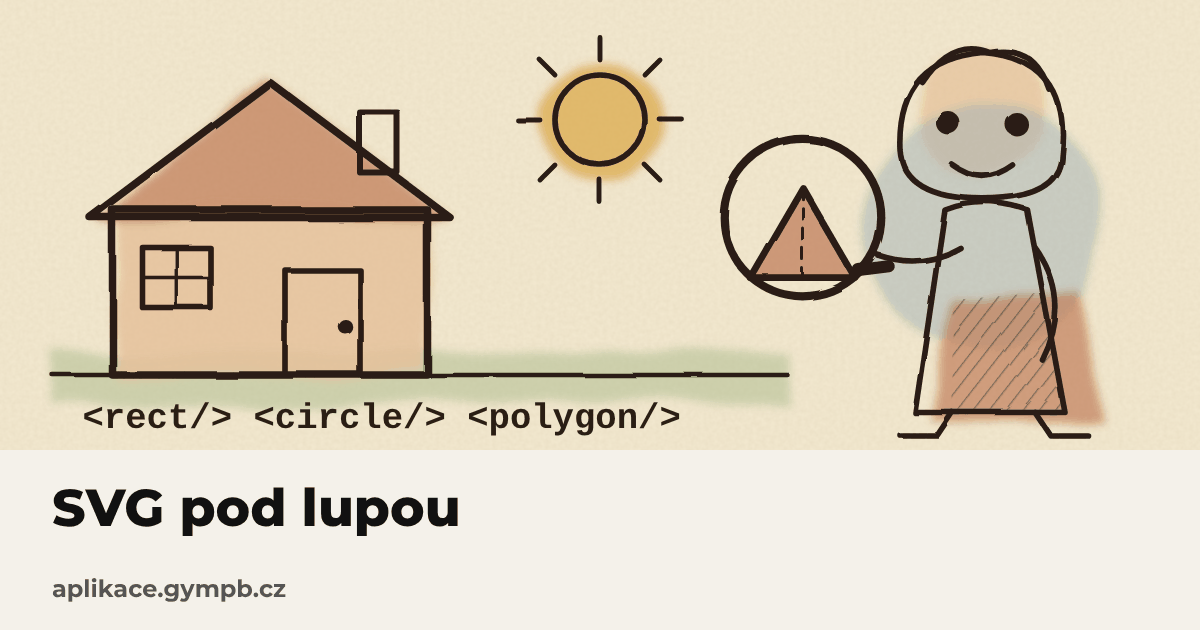
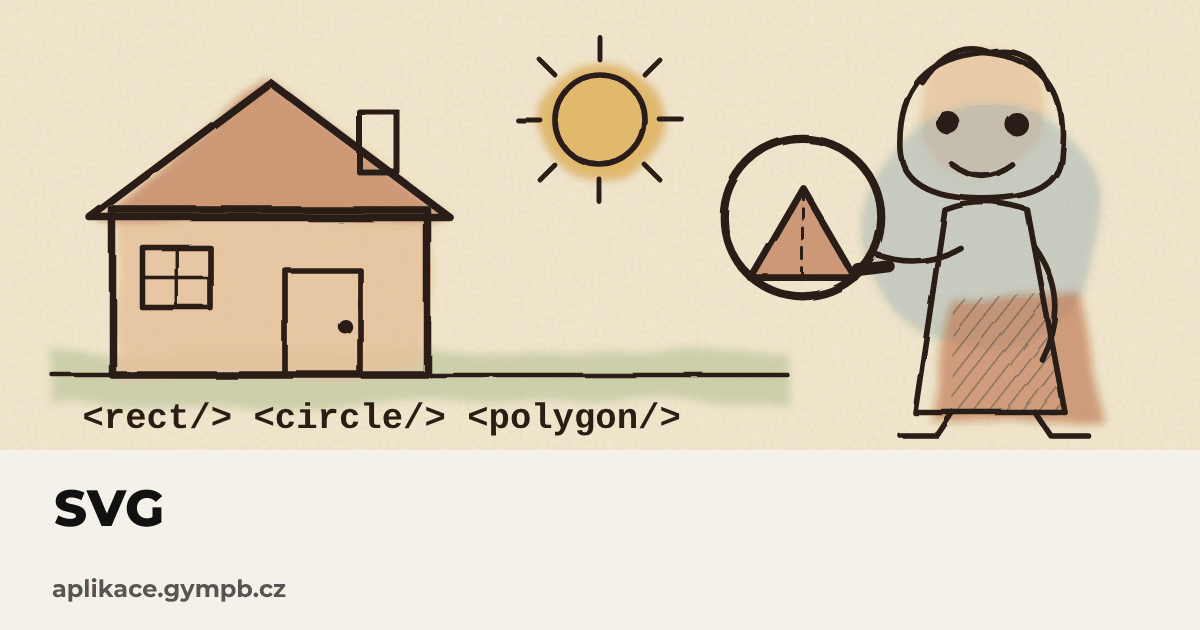
Aplikace SVG pod lupou přejmenována na SVG a vyřazena z řady Pod lupou
Claude-Session: https://claude.ai/code/session_01BEUPNzadzTH9h2qQ7Kx97s

Changed region(s): [[0.0308, 0.754, 0.4008, 0.8444]]

diff --git a/didaktika-aplikaci/index.html b/didaktika-aplikaci/index.html
@@ -283,7 +283,7 @@ dialog.cr button.cr-x,dialog.cr .cr-extra button{font:700 16px/1.2 system-ui,-ap
 <div class="series"><h3>Pod lupou</h3><p><span class="tag">pojmy</span><span class="tag">rozpoznávání</span></p>
 <p><b>Koncepce.</b> Jedno téma se rozebírá do detailu a žák zkoumá, co se uvnitř skrývá. Několik úrovní (Začátečník, Pokročilý, Profesionál), konkrétní záhada na začátku, odhadové otázky, kvíz na konci. Hodí se pro cíle typu B a D.</p>
 <p><b>Pozor na</b> delší čtený text a maskota, který nenese učivo.</p>
-<ul class="apps"><li><a href="../bitmapa-pod-lupou/">Bitmapa pod lupou</a></li><li><a href="../ascii-kod-pod-lupou/">ASCII kód pod lupou</a></li><li><a href="../unicode-pod-lupou/">Unicode pod lupou</a></li><li><a href="../svg-pod-lupou/">SVG pod lupou</a></li></ul></div>
+<ul class="apps"><li><a href="../bitmapa-pod-lupou/">Bitmapa pod lupou</a></li><li><a href="../ascii-kod-pod-lupou/">ASCII kód pod lupou</a></li><li><a href="../unicode-pod-lupou/">Unicode pod lupou</a></li></ul></div>
 <div class="series"><h3>Rychlé učení</h3><p><span class="tag">fakta</span><span class="tag">postupy</span><span class="tag">metakognice</span></p>
 <p><b>Koncepce.</b> Aplikace stavěná na smyčku z úvodu: šest krátkých kroků, řešený příklad → doplňování → samostatně, tři úrovně nápověd, rozložené opakování, které se přizpůsobí chybám, přenositelný kód zálohy. Bez sérií, odznaků a zvuků jako motoru. Pro mobil, relace v minutách. Cíle typu A, C a F.</p>
 <ul class="apps"><li><a href="../bity-a-bajty/">Bity a bajty</a></li></ul></div>
@@ -567,7 +567,7 @@ dialog.cr button.cr-x,dialog.cr .cr-extra button{font:700 16px/1.2 system-ui,-ap
 <p><strong>Řady aplikací</strong></p>
 <p>Řada je volitelný štítek v katalogu, který sdružuje aplikace stejného druhu. Jsou tři:</p>
 <ul>
-<li><strong>Pod lupou</strong> (4 aplikace: Bitmapa, ASCII kód, Unicode, SVG): rozbor jednoho tématu po vrstvách (Začátečník, Pokročilý, Profesionál, Laboratoř), záhada na začátku, odhadové otázky, kvíz. Typ cíle B a D.</li>
+<li><strong>Pod lupou</strong> (3 aplikace: Bitmapa, ASCII kód, Unicode): rozbor jednoho tématu po vrstvách (Začátečník, Pokročilý, Profesionál, Laboratoř), záhada na začátku, odhadové otázky, kvíz. Typ cíle B a D.</li>
 <li><strong>Rychlé učení</strong> (1 aplikace: Bity a bajty): smyčka z kapitoly 1 v praxi: malé kroky, řešený příklad → doplňování → samostatně, odstupňované nápovědy, opakování přizpůsobené chybám, odhad jistoty, záloha postupu, bez sérií a žebříčků jako motoru. Typ cíle A, C, F.</li>
 <li><strong>Interaktivní laboratoř</strong> (4 aplikace: Sound, HDR, Video, JPEG Lab Pro): pokusy s parametry a okamžitý výsledek. Silné jako pomůcka pro projekci, chybí jim úkol a predikce pro samostudium. Typ cíle B a E.</li>
 </ul>

diff --git a/svg-pod-lupou/index.html b/svg-pod-lupou/index.html
@@ -3,7 +3,7 @@
 <head>
 <meta charset="utf-8">
 <meta name="viewport" content="width=device-width, initial-scale=1, viewport-fit=cover">
-<title>SVG pod lupou</title>
+<title>SVG</title>
 <meta name="description" content="Interaktivní výklad formátu SVG: kód a kresba, XML, viewBox, tvary, cesty, styly, transformace, animace, úkoly a kvíz.">
 <meta name="author" content="Ivo Bešťák">
 <style>
@@ -194,7 +194,7 @@ footer{margin-top:18px;font-size:.875rem;color:var(--muted)}
 <meta property="og:type" content="website">
 <meta property="og:site_name" content="gymplikace">
 <meta property="og:locale" content="cs_CZ">
-<meta property="og:title" content="SVG pod lupou">
+<meta property="og:title" content="SVG">
 <meta property="og:description" content="Jak funguje formát SVG: kód a kresba, jazyk XML, viewBox, základní tvary, cesty, barvy, transformace a animace. V dílně žáci kreslí podle předlohy s kontrolou shody, na závěr je kvíz.">
 <meta property="og:url" content="https://aplikace.gympb.cz/svg-pod-lupou/">
 <meta property="og:image" content="https://aplikace.gympb.cz/svg-pod-lupou/nahled.png">
@@ -227,7 +227,7 @@ dialog.cr button.cr-x,dialog.cr .cr-extra button{font:700 16px/1.2 system-ui,-ap
 <div class="app">
 <aside class="rail">
   <a class="back" href="../">← Všechny školní aplikace</a><button type="button" class="cr-btn cr-stack" data-credits aria-haspopup="dialog">Autor a licence</button>
-  <svg class="mark" viewBox="-6 -6 170 82" role="img" aria-label="SVG pod lupou">
+  <svg class="mark" viewBox="-6 -6 170 82" role="img" aria-label="SVG">
     <path class="hl" d="M6 20 L6 4 M42 48 L42 66"/><path class="hl" d="M106 34 L108 8 M106 34 L104 60"/>
     <path class="s" pathLength="1" d="M40 12 C28 2 6 4 6 20 C6 36 42 30 42 48 C42 64 16 66 4 54"/>
     <path class="s" pathLength="1" style="animation-delay:.25s" d="M56 6 L78 62 L100 6"/>
@@ -574,7 +574,7 @@ p.setAttribute('stroke-dashoffset', 1 - t);</pre>
 <dialog class="cr" id="credits" aria-labelledby="cr-h">
 <h2 id="cr-h">Autor a licence</h2>
 <dl>
-<dt>Aplikace</dt><dd>SVG pod lupou</dd>
+<dt>Aplikace</dt><dd>SVG</dd>
 <dt>Autor</dt><dd>Ivo Bešťák</dd>
 <dt>Licence</dt><dd><a href="https://creativecommons.org/licenses/by/4.0/deed.cs" target="_blank" rel="noopener">CC BY 4.0</a></dd>
 <dt>Aktualizace</dt><dd>4. 11. 2026</dd>

diff --git a/bitmapa-pod-lupou/index.html b/bitmapa-pod-lupou/index.html
@@ -1330,7 +1330,7 @@ dialog.cr button.cr-x,dialog.cr .cr-extra button{font:700 16px/1.2 system-ui,-ap
         <figure><div id="vecR" style="height:200px;overflow:hidden;border:1px solid var(--line);border-radius:8px;background:#fff"><canvas id="vecC" width="200" height="200" style="image-rendering:pixelated;width:100%;height:100%"></canvas></div><figcaption>Bitmapa 40 × 40 px: uložené pixely se nafukují.</figcaption></figure>
         <figure><div style="height:200px;overflow:hidden;border:1px solid var(--line);border-radius:8px;background:#fff"><svg id="vecS2" viewBox="0 0 40 40" width="100%" height="100%" preserveAspectRatio="xMidYMid meet" aria-label="Vektorová kružnice"><circle cx="20" cy="20" r="15" fill="#0c5f8f"/><path d="M12 22l6 6 11-14" fill="none" stroke="#fff" stroke-width="3"/></svg></div><figcaption>Vektor: tvar se při každém přiblížení nakreslí znovu.</figcaption></figure>
       </div>
-      <div class="links2"><a href="../svg-pod-lupou/">Aplikace SVG pod lupou: jak funguje vektorový formát →</a></div>
+      <div class="links2"><a href="../svg-pod-lupou/">Aplikace SVG: jak funguje vektorový formát →</a></div>
     </div>
     <div class="kq" data-ok="c">
       <p class="q">Školní znak potřebuješ na vizitku i na plachtu 3 × 2 m. V jakém tvaru ho chceš mít?</p>
